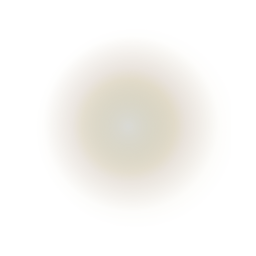
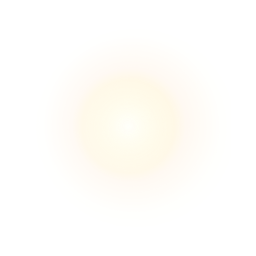
progress

Changed region(s): [[0.2812, 0.2812, 0.7188, 0.6875]]

diff --git a/static/js/ThreepressGallery.js b/static/js/ThreepressGallery.js
@@ -15,6 +15,7 @@ import { OrbitControls } from '../inc/OrbitControls.js?v=0.4.0'
 import Sun from './helpers/Sun.js'
 
 import {
+	model_selector,
 	fill_dimensions,
 	fetch_wrap,
 	ModelRow,
@@ -153,8 +154,11 @@ export default init => {
 		gallery.orbit_controls ? animate_controls() : animate()
 	}
 
-	const stop_animation = () => {
-		gallery.animating = false
+	const stop_animation = (e, override) => {
+
+		if( override || !gallery.rotate_scene ){
+			gallery.animating = false
+		}
 	}
 
 	gallery.anim_state = state => { // state
@@ -171,37 +175,33 @@ export default init => {
 		if( !gallery.animating ) return
 
 		now = performance.now()
-		// delta = now - then
-		// delta_seconds = delta / 1000 
 		gallery.RENDERER.render( gallery.SCENE, gallery.CAMERA )
 
-		for( const child of gallery.SCENE.children ){
-			if( child.userData.subject && gallery.rotate_scene ){
-				if( gallery.rotate_x ) child.rotation.x += gallery.scaled_rotate
-				if( gallery.rotate_y ) child.rotation.y += gallery.scaled_rotate
-				if( gallery.rotate_z ) child.rotation.z += gallery.scaled_rotate
-			}
+		if(  gallery.rotate_scene ){ // child.userData.subject &&
+			gallery.CAMERA.position.x = gallery.camera_dist * ( Math.sin( performance.now() / 20000 * gallery.rotate_speed ) )
+			gallery.CAMERA.position.z = gallery.camera_dist * ( Math.cos( performance.now() / 20000 * gallery.rotate_speed ) )
 		}
+
+		if( gallery.rotate_scene ) gallery.CAMERA.lookAt( origin )
 
 		requestAnimationFrame( animate )
 
 	}
 
 	const animate_controls = () => { // animation with controls
+
 		if( !gallery.animating ) return
+
 		now = performance.now()
-		// delta = now - then
-		// delta_seconds = delta / 1000 
 		gallery.RENDERER.render( gallery.SCENE, gallery.CAMERA )
 
-		for( const child of gallery.SCENE.children ){
-			if( child.userData.subject && gallery.rotate_scene ){
-				if( gallery.rotate_x ) child.rotation.x += gallery.scaled_rotate
-				if( gallery.rotate_y ) child.rotation.y += gallery.scaled_rotate
-				if( gallery.rotate_z ) child.rotation.z += gallery.scaled_rotate
-			}
+		if( gallery.rotate_scene ){ // child.userData.subject
+			gallery.CAMERA.position.x = gallery.camera_dist * ( Math.sin( performance.now() / 20000 * gallery.rotate_speed ) )
+			gallery.CAMERA.position.z = gallery.camera_dist * ( Math.cos( performance.now() / 20000 * gallery.rotate_speed ) )
 		}
+
 		gallery.orbit_controls.update()
+		// gallery.CAMERA.lookAt( )
 		requestAnimationFrame( animate_controls )
 
 	}
@@ -306,7 +306,7 @@ export default init => {
 
 				// sun stuffs...
 				gallery.SUN = new Sun({
-					
+					intensity: gallery.scaled_intensity,
 				})
 				gallery.LIGHT = gallery.SUN.directional
 			}
@@ -348,17 +348,29 @@ export default init => {
 
 			gallery.CAMERA.far = radius * 100
 
-			gallery.CAMERA.position.set( 0, radius, radius * gallery.camera_dist )
+			gallery.camera_xpos = 0
+			gallery.camera_ypos = radius * 1.5
+			gallery.camera_zpos = radius * gallery.camera_dist 
+			gallery.CAMERA.position.set( 
+				gallery.camera_xpos, 
+				gallery.camera_ypos, 
+				gallery.camera_zpos, 
+			)
 			gallery.CAMERA.lookAt( model.position )
 			gallery.LIGHT.position.set( diam, diam, diam )
 			gallery.LIGHT.lookAt( model.position )
 			if( gallery.SUN && gallery.MODELS && gallery.MODELS[0] ){
-				gallery.SUN.ele.position.set( gallery.MODELS[0].userData.dimensions.x, 10, 0 )
+				gallery.SUN.ele.position.set( 
+					gallery.MODELS[0].userData.dimensions.x * 3,
+					gallery.MODELS[0].userData.dimensions.y * 2,
+					-gallery.MODELS[0].userData.dimensions.z * 10,
+				)
 				gallery.SCENE.add( gallery.SUN.ele )
-				gallery.MODELS[0].traverse( child => {
-					console.log( child.material )
-					// child.receiveShadow = true
-				})
+				gallery.SUN.directional.position.copy( gallery.SUN.ele.position )
+				// gallery.MODELS[0].traverse( child => {
+				// 	console.log( child.material )
+				// 	// child.receiveShadow = true
+				// })
 				// .receiveShadow = true
 
 			}
@@ -457,9 +469,9 @@ export default init => {
 		// --- derived gallery attributes:
 
 		// rotate
-		if( gallery.rotate_scene ){
-			shortcodes += 'rotate_scene=true '
-		}
+		// if( gallery.rotate_scene ){
+		// 	shortcodes += 'rotate_scene=true '
+		// }
 		
 		// model
 		gallery.fill_model_from_form()
@@ -661,7 +673,7 @@ export default init => {
 
 		// light
 		for( const option of form.querySelectorAll('input[name=options_light]')){
-			if( option.value === gallery.controls ) option.checked = true
+			if( option.value === gallery.light ) option.checked = true
 		}
 		// light intensity
 		form.querySelector('input[name=intensity]').value = gallery.intensity // scaled_intensity
@@ -698,6 +710,11 @@ export default init => {
 			top: window.pageYOffset + form.getBoundingClientRect().top - 50,
 			behavior: 'smooth',
 		})
+
+		// const choose_model = document.getElementById('choose-model')
+
+		gallery.render_contingent( form, rotate_scene, model_choice, shortcode )
+		gallery.render_contingent( form, allow_zoom, model_choice, shortcode )
 
 		hal('success', 'editing "' + name + '"', 3000 )
 
@@ -805,6 +822,45 @@ export default init => {
 		})
 
 		return row
+
+	}
+
+
+
+
+
+	gallery.render_contingent = ( form, target_ele, model_choice, shortcode ) => {
+
+		if( !target_ele ){
+			console.log('missing', model_choice )
+			return 
+		}
+
+		let contingents
+
+		if( target_ele.id === 'choose-model'){
+
+			model_selector(( id, model_row ) => {
+				model_choice.innerHTML = ''
+				model_row.form = form
+				model_choice.appendChild( model_row.gen_row() )
+				shortcode.value = gallery.render_shortcode() //  form 
+			})
+
+		}else if( target_ele.name === 'rotate_scene'){
+
+			contingents = target_ele.parentElement.parentElement.querySelectorAll('.contingent')
+
+			set_contingents( contingents, target_ele.checked )
+
+		}else if( target_ele.name === 'allow_zoom' ){
+
+			contingents = target_ele.parentElement.parentElement.querySelectorAll('.contingent')
+			// contingents = [form.querySelector('input[name=zoom_speed]')]
+
+			set_contingents( contingents, target_ele.checked )
+
+		}
 
 	}
 

diff --git a/static/js/build_form.js b/static/js/build_form.js
@@ -1,6 +1,5 @@
 
 import {
-	model_selector,
 	set_contingents,
 	hal,
 	fetch_wrap,
@@ -131,7 +130,8 @@ export default ( gallery, output_container ) => {
 	// allow zoom, zoom speed, initial zoom
 	const zoom = build_option('checkbox', 'allow_zoom', false, 'allow zoom', false, false )
 	const zoom_speed = build_option('range', 'zoom_speed', false, false, false, { min: 1, max: 12, })
-	const initial_zoom = build_option('range', 'camera_dist', 10, 'initial zoom', false, false, { min: 1, max: 20 })
+	// const initial_zoom = build_option('range', 'camera_dist', 10, 'initial zoom', false, false, { min: 1, max: 20 })
+	const initial_zoom = build_option('range', 'camera_dist', 10, 'initial zoom', false,  true, { min: 1, max: 20 })
 	camera.appendChild( zoom )
 	camera.appendChild( zoom_speed )
 	camera.appendChild( initial_zoom )
@@ -202,33 +202,7 @@ export default ( gallery, output_container ) => {
 
 		let contingents
 
-		if( e.target.id === 'choose-model'){
-
-			model_selector(( id, model_row ) => {
-				model_choice.innerHTML = ''
-				model_row.form = form
-				model_choice.appendChild( model_row.gen_row() )
-				shortcode.value = gallery.render_shortcode() //  form 
-			})
-
-		}else if( e.target.name === 'rotate_scene'){
-
-			contingents = e.target.parentElement.parentElement.querySelectorAll('.contingent')
-
-			set_contingents( contingents, e.target.checked )
-
-		}else if( e.target.name === 'allow_zoom' ){
-
-			contingents = [form.querySelector('input[name=zoom_speed]')]
-
-			set_contingents( contingents, e.target.checked )
-
-		}
-		// else if( e.target.name === 'options_controls'){
-
-		// 	contingents = form.querySelectorAll('')
-
-		// }
+		gallery.render_contingent( form, e.target, model_choice, shortcode )
 
 	})
 
@@ -251,6 +225,7 @@ export default ( gallery, output_container ) => {
 	const bg_color = form.querySelector('input[name=bg_color]')
 	color_picker.addEventListener('change', e => {
 		bg_color.value = color_picker.value
+		shortcode.value = gallery.render_shortcode() // gallery.form
 	})
 
 
@@ -369,6 +344,15 @@ export default ( gallery, output_container ) => {
 	return form
 
 }
+
+
+
+
+
+
+
+
+
 
 
 

diff --git a/static/js/helpers/Sun.js b/static/js/helpers/Sun.js
@@ -53,17 +53,16 @@ export default class Sun {
 		sun.material = new SpriteMaterial({
 			map: sun.texture,
 			color: sun.color,
-			// fog: false,
 		})
 		sun.layer1 = new Sprite( sun.material )
 		sun.layer1.bloom = true
 		sun.layer2 = new Sprite( sun.material )
 		// sun.layer3 = new Sprite( sun.material )
-		sun.layer1.scale.set( sun.scale, sun.scale, sun.scale )
-		sun.layer2.scale.multiplyScalar( 1.1 )
-		// set( sun.scale * 1.1, sun.scale * 1.1, sun.scale * 1.1 )
-		// sun.layer3.scale.multiplyScalar( 1.2 )
-		// set( sun.scale * 1.2, sun.scale * 1.2, sun.scale * 1.2 )
+		sun.layer1.scale.set( 
+			sun.scale, 
+			sun.scale, 
+			sun.scale )
+		sun.layer2.scale.copy( sun.layer1.scale ).multiplyScalar( 1.1 )
 
 		sun.flares = [
 			{
@@ -108,11 +107,16 @@ export default class Sun {
 				distance: .65,
 				color: new Color(0xccaaff),
 			},
-		],
+		]
 
 		sun.lensflare = new Lensflare()
 		for( const flare of sun.flares ){
-			sun.lensflare.addElement( new LensflareElement( flare.texture, flare.size, flare.distance, flare.color ) )
+			sun.lensflare.addElement( new LensflareElement( 
+				flare.texture, 
+				flare.size, 
+				flare.distance, 
+				flare.color 
+			))
 		}
 
 		sun.ele = new Group()
@@ -122,8 +126,9 @@ export default class Sun {
 
 		sun.ele.userData.type = 'sun'
 
-		// sun.ele.add( sun.lensflare )
-
+		sun.ele.add( sun.lensflare )
+		
+		// 
 		// sun.ele.add( sun.layer3 )
 		// sun.ele.add( sun.directional )
 
@@ -133,6 +138,7 @@ export default class Sun {
 
 		sun.directional = new DirectionalLight( sun.color, 1 )
 
+		// sun.ele.add( sun.directional )
 		sun.directional.position.copy( offset )
 		sun.directional.castShadow = true
 		sun.directional.shadow.camera.near = 10;

diff --git a/static/inc/Lensflare.js b/static/inc/Lensflare.js
@@ -19,7 +19,9 @@ import {
 
 var Lensflare = function () {
 
-	Mesh.call( this, Lensflare.Geometry, new MeshBasicMaterial( { opacity: 0, transparent: true } ) );
+	const lens_mat = new MeshBasicMaterial( { opacity: 0, transparent: true } )
+
+	Mesh.call( this, Lensflare.Geometry, lens_mat );
 
 	this.type = 'Lensflare';
 	this.frustumCulled = false;

diff --git a/inc/_gallery-form.php b/inc/_gallery-form.php
@@ -101,7 +101,7 @@ function threepress_gallery_form(){
 			    			<label>zoom speed</label>
 			    			<input type='range' min=1 max=12 name='zoom_speed'>
 			    		</div>
-			    		<div class='selection'>
+			    		<div class='selection contingent'>
 							<label>initial zoom</label>
 			    			<input type='range' min=1 max=20 name='camera_dist'>
 			    		</div>
